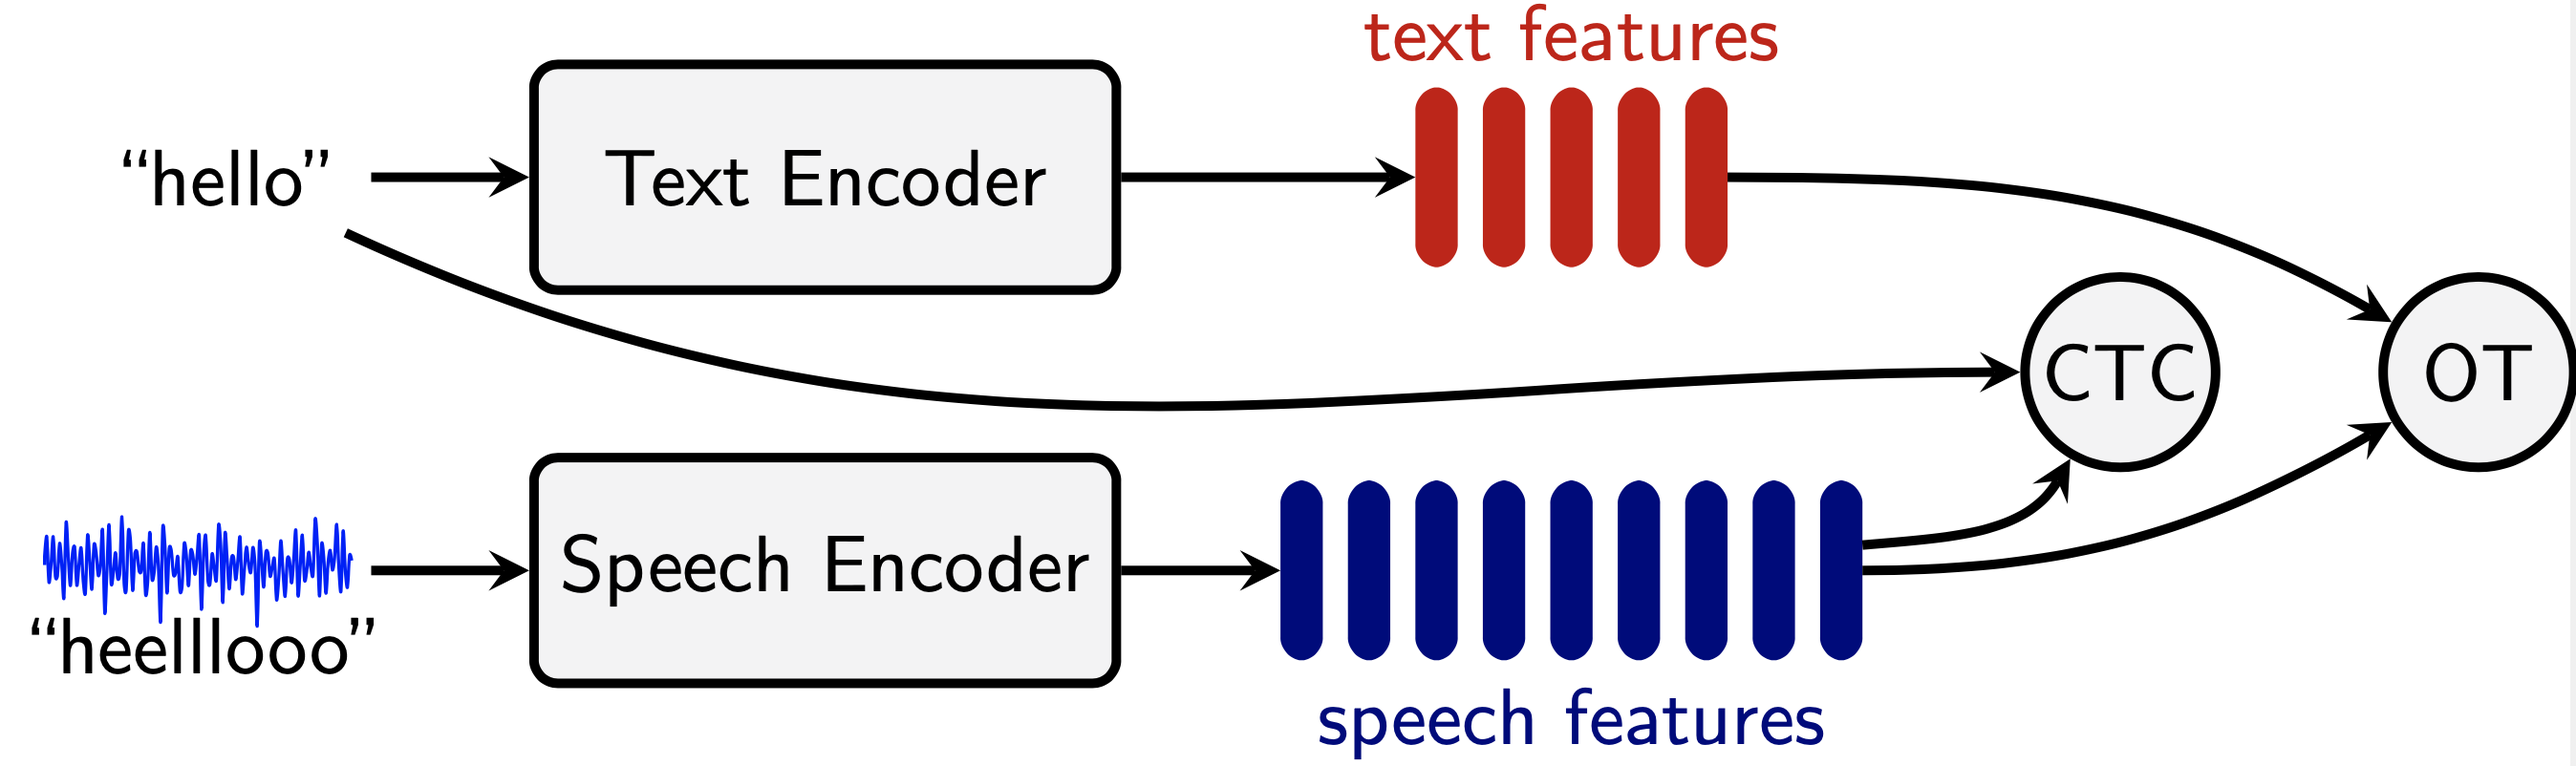
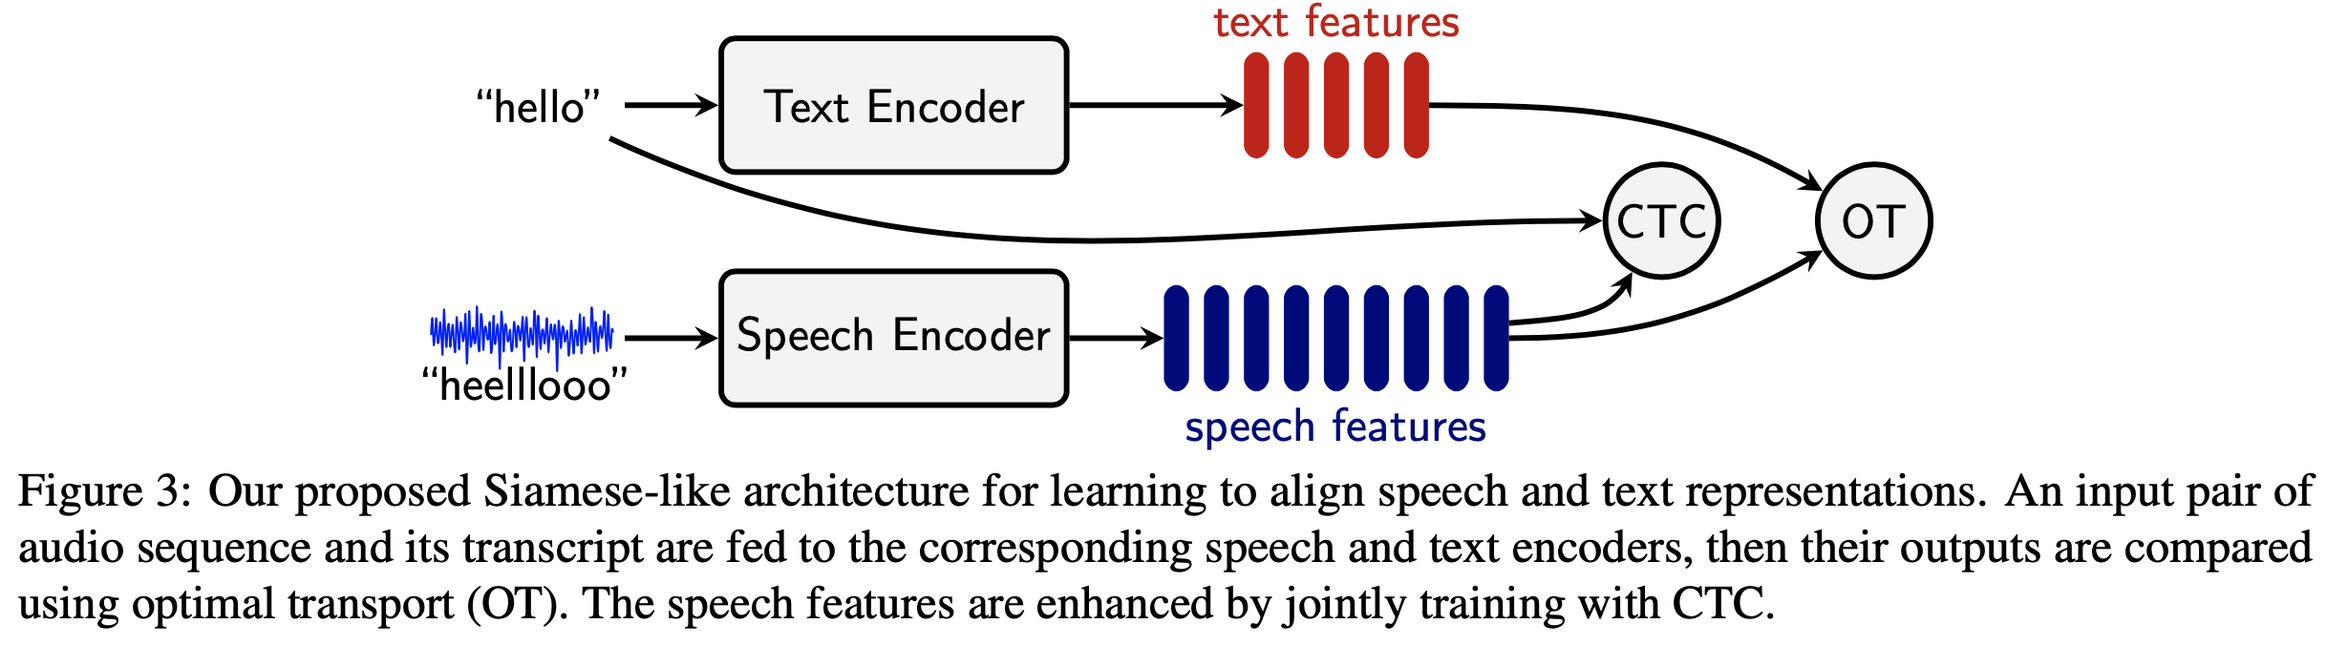
Update README siamese_s2t

diff --git a/examples/speech_text_siamese/README.md b/examples/speech_text_siamese/README.md
@@ -15,7 +15,6 @@ This is the codebase for the paper [Pre-training for Speech Translation: CTC Mee
 Our main idea is to train the speech encoder to generate representations that are close to those produced by a text encoder. The challenge here is that, given the same sentence, its speech features typically have a *much longer sequence length* than its text features, which makes it difficult to *compare* them. The Wasserstein distance from optimal transport (OT) turns out to be a suitable solution.
 
 ![siamese_pt](figures/speech_text_alignment.png)
-Our proposed Siamese-like architecture for learning to align speech and text representations. An input pair of audio sequence and its transcript are fed to the corresponding speech and text encoders, then their outputs are compared using optimal transport (OT). The speech features are enhanced by jointly training with CTC.
 
 ## 1.2. Main results
 ![results_in_figure](figures/all_results_in_figures.png)
@@ -175,18 +174,18 @@ The two tables below show the detailed results on MuST-C test set and summary of
 [1] Wang et al., 2020. Covost 2 and massively
 multilingual speech-to-text translation.
 
-# 1. Pre-trained models
-All pre-trained models, including [MT](#11-mt-models), [ASR](#12-asr-models), and [ST](#13-st-models), are made publicly available for download. 
+# 2. Pre-trained models
+All pre-trained models, including [MT](#21-mt-models), [ASR](#22-asr-models), and [ST](#23-st-models), are made publicly available for download. 
 
 
 
-## 1.1. MT models
+## 2.1. MT models
 For MuST-C bilingual MT models, we used the ones provided in [Joint Speech Text Training example](https://github.com/facebookresearch/fairseq/blob/main/examples/speech_text_joint_to_text/docs/ende-mustc.md) and trained our multilingual MT models (for both MuST-C and CoVoST-2) ourselves.
 - [MuST-C En-De](https://dl.fbaipublicfiles.com/joint_speech_text_4_s2t/must_c/en_de/checkpoint_mt.pt), [MuST-C En-Fr](https://dl.fbaipublicfiles.com/joint_speech_text_4_s2t/must_c/en_fr/checkpoint_mt.pt), [MuST-C one-to-many](https://zenodo.org/record/7646534/files/mustc_all_mt_pho2spm.pt?download=1)
 
 - [CoVoST one-to-many](https://zenodo.org/record/7646534/files/covost_en2xx_mt_pho2spm.pt?download=1), [CoVoST many-to-one](https://zenodo.org/record/7646534/files/covost_xx2en_mt_spm2spm.pt?download=1)
 
-## 1.2. ASR models
+## 2.2. ASR models
 `CE`, `CTC`, `CTC+CE`, and `CTC+OT` indicate the loss(es) used during the ASR pre-training stage. `CE`, `CTC`, and `OT`, respectively, stand for cross-entropy, connectionist temporal classification, and optimal transport.
 - **MuST-C**
     * En-De: [CE](https://zenodo.org/record/7645707/files/mustc_ende_asr_ce.pt?download=1), [CTC](https://zenodo.org/record/7645707/files/mustc_ende_asr_ctc.pt?download=1), [CTC+CE](https://zenodo.org/record/7645707/files/mustc_ende_asr_ctc_ce0.1.pt?download=1), [CTC+OT](https://zenodo.org/record/7645707/files/mustc_ende_asr_ctc_ot0.1.pt?download=1)
@@ -198,7 +197,7 @@ For MuST-C bilingual MT models, we used the ones provided in [Joint Speech Text 
     * One-to-many: [CE](https://zenodo.org/record/7646534/files/covost_en_asr_ce.pt?download=1), [CTC](https://zenodo.org/record/7646534/files/covost_en_asr_ctc.pt?download=1), [CTC+CE](https://zenodo.org/record/7646534/files/covost_en_asr_ctc_ce0.1.pt?download=1), [CTC+OT](https://zenodo.org/record/7646534/files/covost_en_asr_ctc_ot0.1.pt?download=1), [CTC+OT large](https://zenodo.org/record/7646534/files/covost_en_asr_ctc_ot0.1_archl.pt?download=1)
     * Many-to-one: [CE](https://zenodo.org/record/7646534/files/covost_m2o_asr_ce.pt?download=1), [CTC](https://zenodo.org/record/7646534/files/covost_m2o_asr_ctc.pt?download=1), [CTC+CE](https://zenodo.org/record/7646534/files/covost_m2o_asr_ctc_ce0.1.pt?download=1), [CTC+OT](https://zenodo.org/record/7646534/files/covost_m2o_asr_ctc_ot0.1.pt?download=1)
 
-## 1.3. ST models
+## 2.3. ST models
 `CE`, `CTC`, `CTC+CE`, and `CTC+OT` indicate the corresponding pre-trained speech encoder (obtained from the above ASR pre-trained stage) used to initialize the speech encoder in the ST model. The speech decoder is initialized using the MT decoder corresponding to each translation direction.
 
 - **MuST-C**
@@ -210,7 +209,7 @@ For MuST-C bilingual MT models, we used the ones provided in [Joint Speech Text 
     * One-to-many: [CE](https://zenodo.org/record/7646534/files/covost_en2xx_st_init_ce_with_mt.pt?download=1), [CTC](https://zenodo.org/record/7646534/files/covost_en2xx_st_init_ctc_with_mt.pt?download=1), [CTC+CE](https://zenodo.org/record/7646534/files/covost_en2xx_st_init_ctc_ce0.1_with_mt.pt?download=1), [CTC+OT](https://zenodo.org/record/7646534/files/covost_en2xx_st_init_ctc_ot0.1_with_mt.pt?download=1), [CTC+OT large](https://zenodo.org/record/7646534/files/covost_en2xx_st_init_ctc_ot0.1_archl_with_mt.pt?download=1)
     * Many-to-one: [CE](https://zenodo.org/record/7646534/files/covost_xx2en_st_init_ce_with_mt.pt?download=1), [CTC](https://zenodo.org/record/7646534/files/covost_xx2en_st_init_ctc_with_mt.pt?download=1), [CTC+CE](https://zenodo.org/record/7646534/files/covost_xx2en_st_init_ctc_ce0.1_with_mt.pt?download=1), [CTC+OT](https://zenodo.org/record/7646534/files/covost_xx2en_st_init_ctc_ot0.1_with_mt.pt?download=1).
 
-# 2. Data Preparation
+# 3. Data Preparation
 We follow the steps for data preparation provided by [`fairseq S2T`](https://github.com/pytorch/fairseq/tree/master/examples/speech_to_text) for both MuST-C and CoVoST-2, and follow the [Joint Speech Text Training example](https://github.com/facebookresearch/fairseq/blob/main/examples/speech_text_joint_to_text/docs/ende-mustc.md) to get phoneme representations for the transcripts. 
 
 The commands to prepare data for MuST-C, for example, are as follows.
@@ -270,7 +269,7 @@ This command produces similar files as the above, but target text (`tgt_text`) i
     save_df_to_tsv(data, f"{MUSTC_ROOT}/en-{LANG}/{SPLIT}_asr_phoneme.tsv")
     ```
 
-# 3. Model Training
+# 4. Model Training
 The common command for training on 1 GPU is as follow.
 ```bash
 fairseq-train ${DATA_ROOT} \
@@ -301,7 +300,7 @@ fairseq-train ${DATA_ROOT} \
 ```
 where `${DATA_ROOT}`is path to where the `.tsv` files, the configuration and vocabulary files are saved. `${MAX_EPOCH}` is set to 50 and 100 for ST and ASR training stages, respectively. `${SAVE_DIR}` and ` {TENSORBOARD_LOGDIR}` are where checkpoints and tensorboard will be saved, respectively. The specific parameters for each type of training are given in their corresponding sections.
 
-## 3.1. ASR Pre-training
+## 4.1. ASR Pre-training
 ### Pre-training with cross-entropy loss
 ```bash
 CONFIG_YAML=config_unigram10000_asr.yaml
@@ -357,7 +356,7 @@ Additional arguments to be added to the command line:
 --load-pretrain-text-encoder ${PATH_TO_PRETRAINED_MT_MODEL}
 ```
 
-## 3.2. ST Training
+## 4.2. ST Training
 ```bash
 CONFIG_YAML=config_unigram10000_st.yaml
 TRAIN_SUBSET=train_st
@@ -375,7 +374,7 @@ Additional arguments to be added to the command line:
 --load-pretrain-speech-decoder ${PATH_TO_PRETRAINED_ASR_MODEL}
 ```
 
-# 4. Decoding
+# 5. Decoding
 We average the last 10 checkpoints with the following command.
 ```bash
 python scripts/average_checkpoints.py \
@@ -399,7 +398,7 @@ fairseq-generate ${DATA_ROOT} \
                 --scoring sacrebleu
 ```
 
-# 5. References
+# 6. References
 If you find the resources in this repository useful, please cite the following paper:
 ```
 @article{le2023pretraining,
